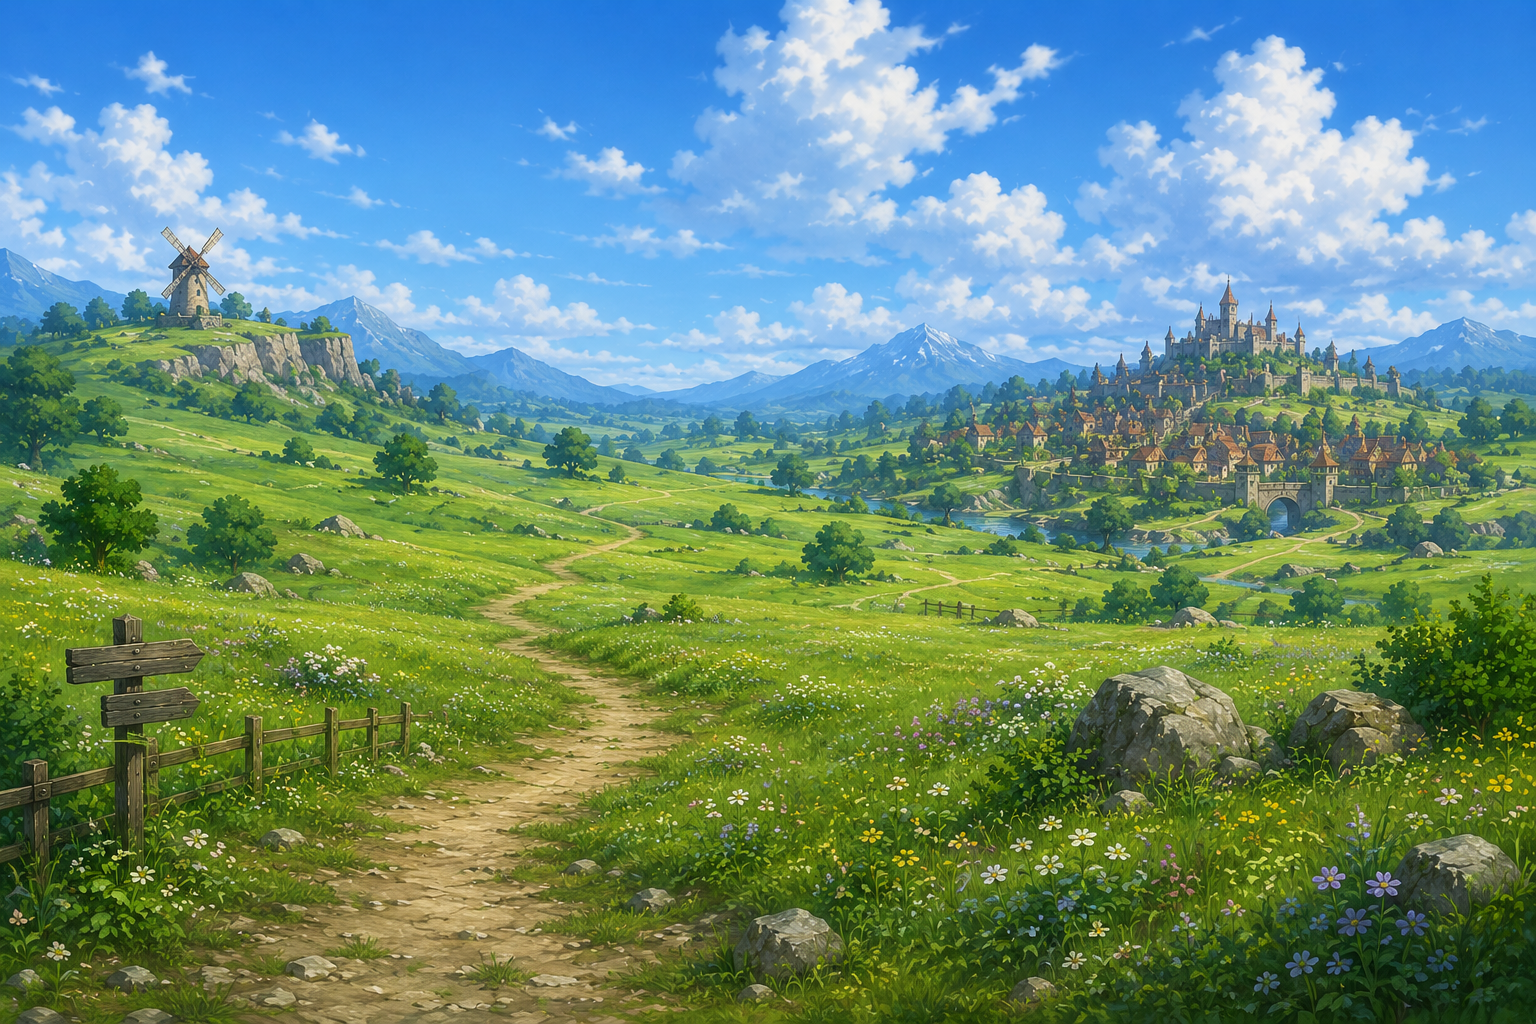
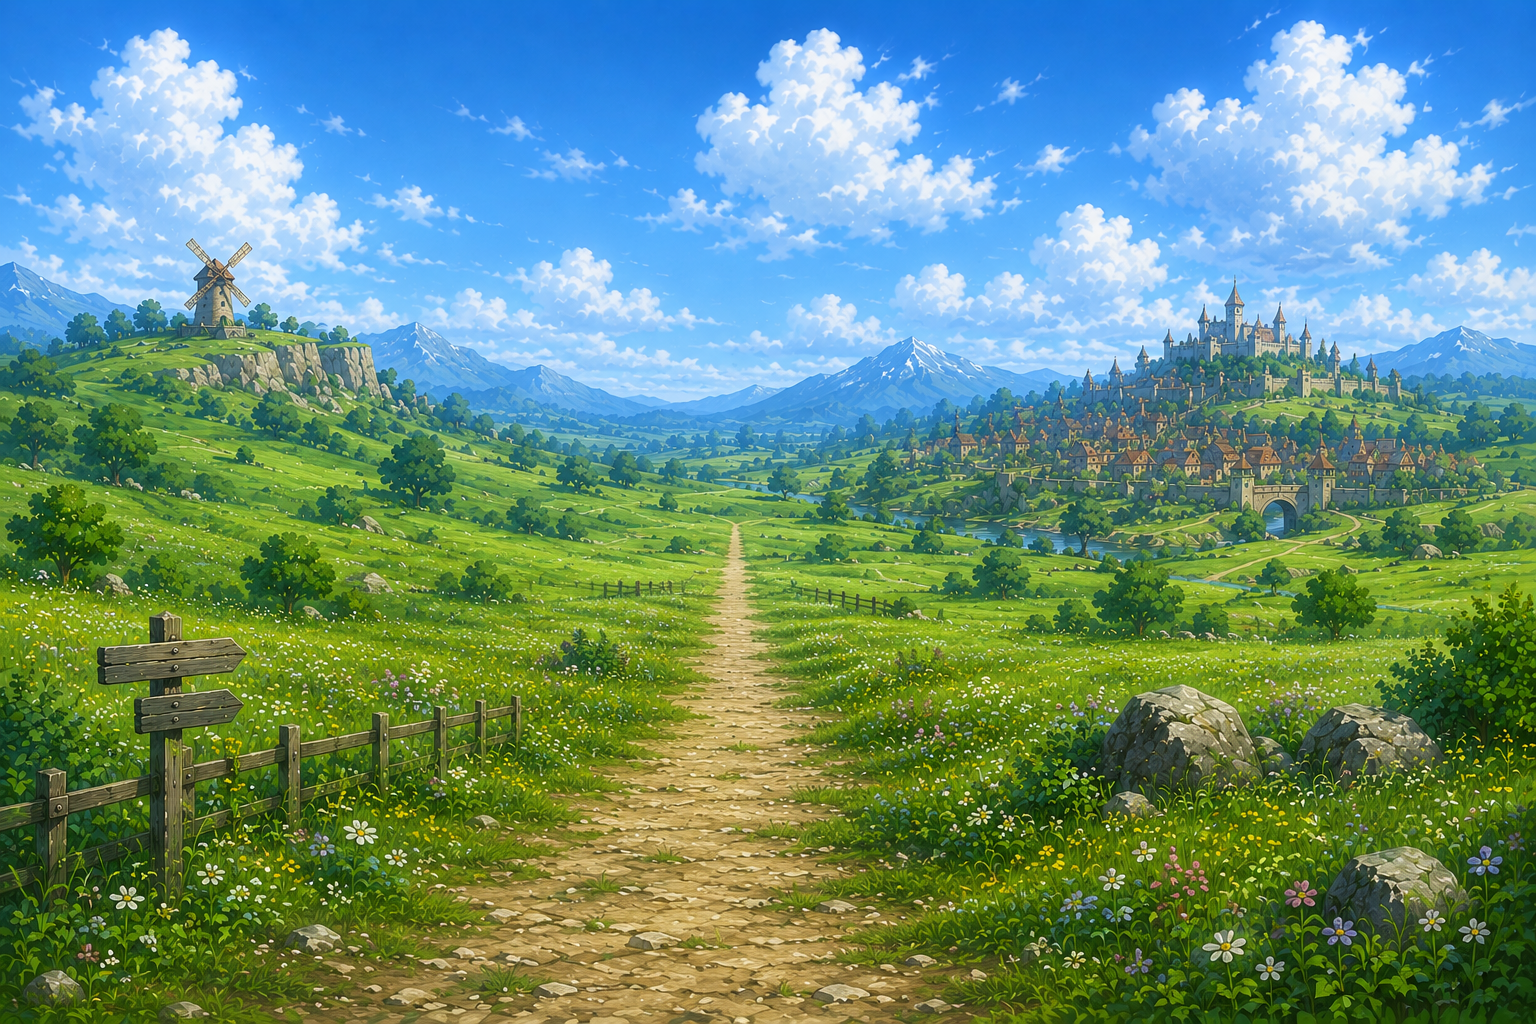
Update starting grassland background

diff --git a/src/ui/handlers/menuHandler.js b/src/ui/handlers/menuHandler.js
@@ -62,10 +62,10 @@ function buildBackToRecordsRow() {
 }
 
 function attachStartingVillageBackground(response) {
-  const backgroundPath = path.join(process.cwd(), 'assets', 'backgrounds', 'starting_village.png');
+  const backgroundPath = path.join(process.cwd(), 'assets', 'backgrounds', 'starting_grassland.png');
   if (!existsSync(backgroundPath)) return { ...response, attachments: [] };
 
-  const attachmentName = `starting-village-${Date.now()}.png`;
+  const attachmentName = `starting-grassland-${Date.now()}.png`;
   const attachment = new AttachmentBuilder(backgroundPath, { name: attachmentName });
   response.embeds[0].setImage(`attachment://${attachmentName}`);
   return { ...response, attachments: [], files: [attachment] };